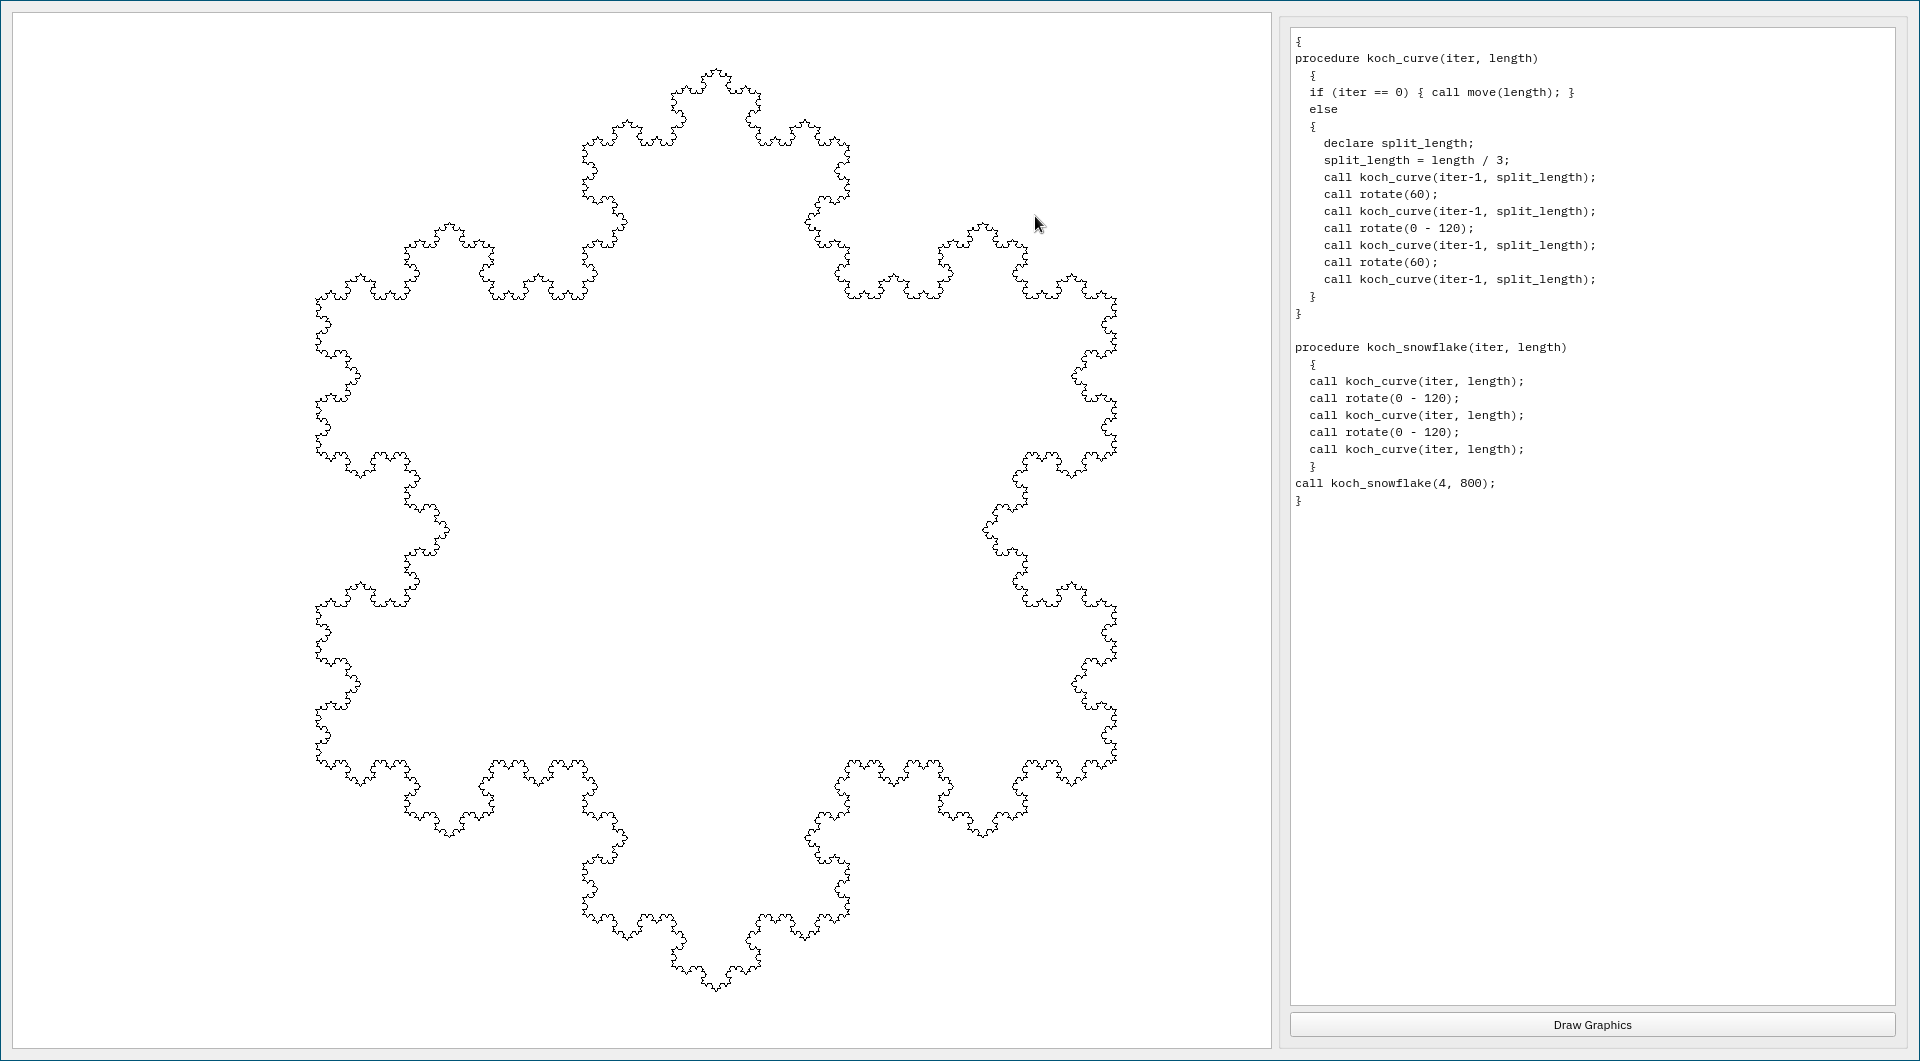
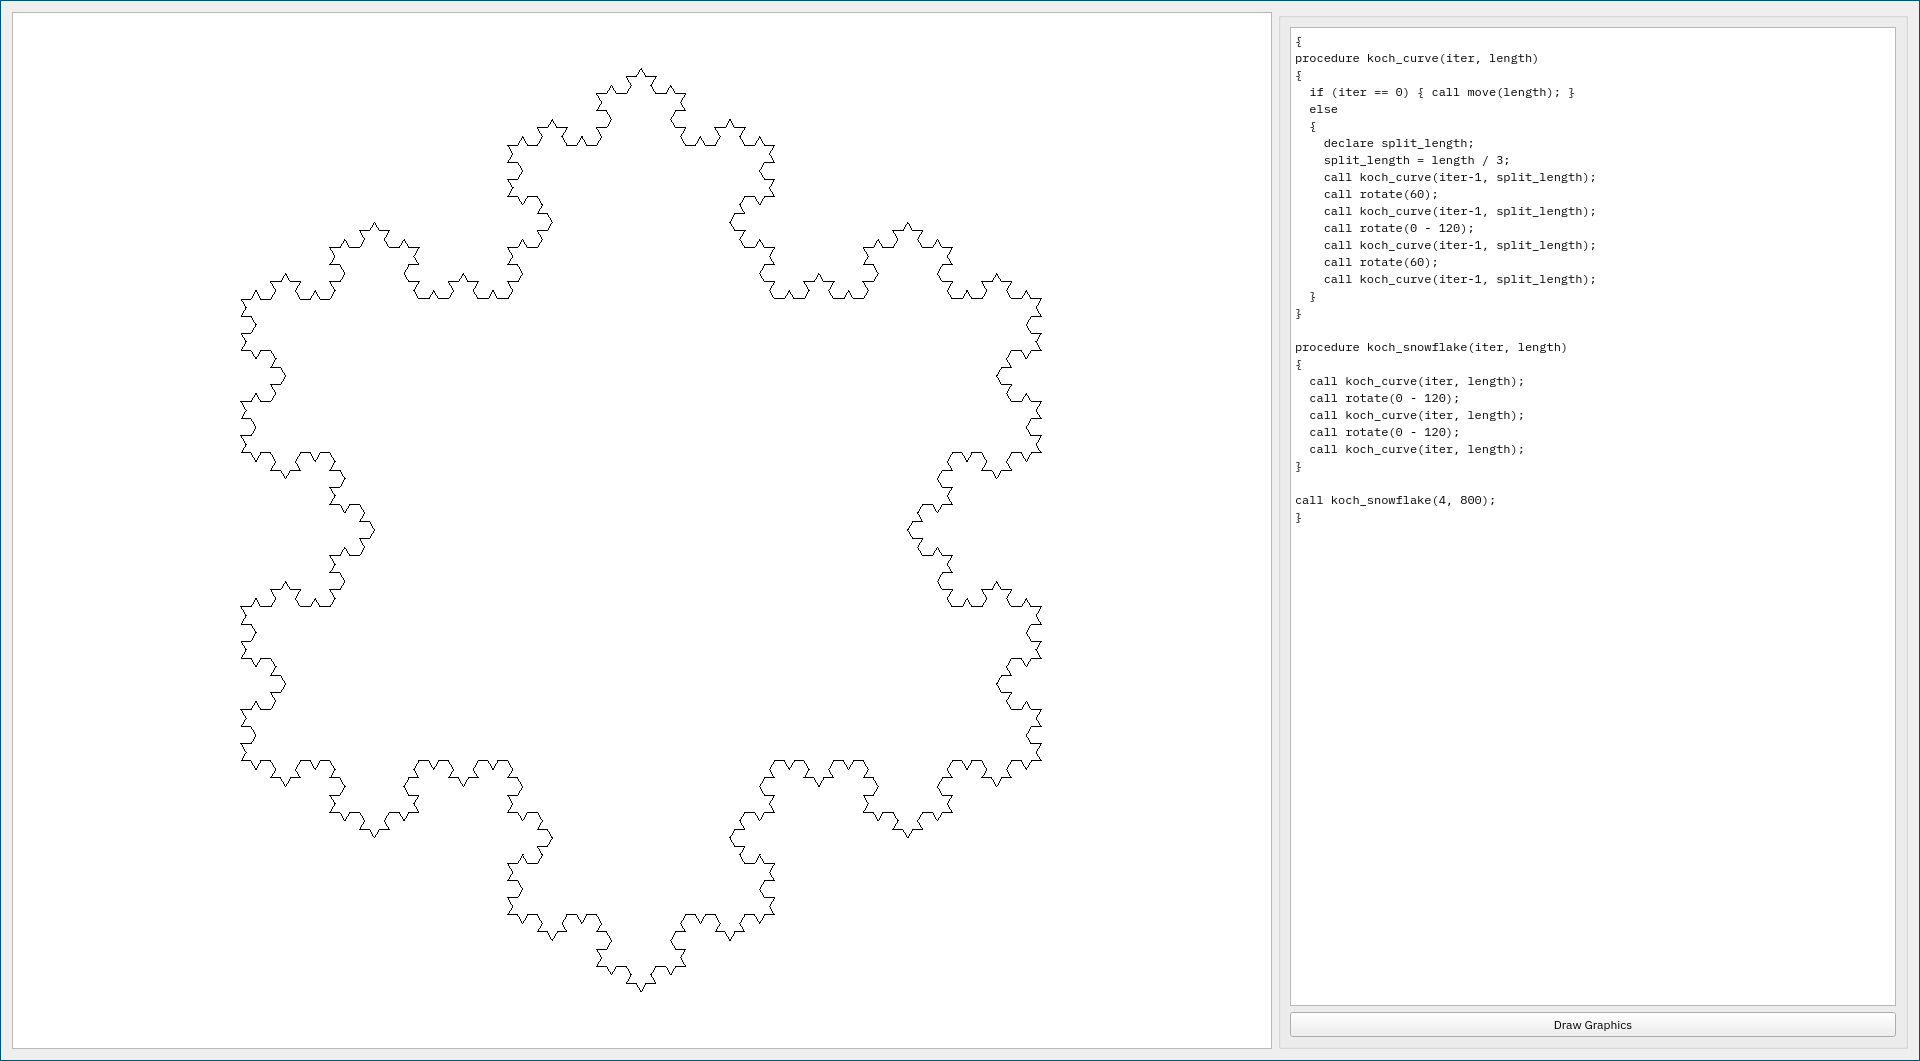
Refactoring and cleanup

diff --git a/TurtleLanguage/statement.h b/TurtleLanguage/statement.h
@@ -23,7 +23,7 @@ namespace Turtle
         std::list<std::shared_ptr<Statement>> body;
 
     public:
-        BlockStatement(std::list<std::shared_ptr<Statement>> b)
+        BlockStatement(const std::list<std::shared_ptr<Statement>>& b)
             : body{b} {}
         ~BlockStatement() {};
         void execute(SymbolTable& table);
@@ -32,10 +32,10 @@ namespace Turtle
     class DeclareStatement : public Statement
     {
     private:
-        std::list<std::string> identifiers;
+        const std::list<std::string> identifiers;
 
     public:
-        DeclareStatement(const std::list<std::string> ids) : identifiers{ids} {}
+        DeclareStatement(const std::list<std::string>& ids) : identifiers{ids} {}
         ~DeclareStatement() {};
         void execute(SymbolTable& table);
     };
@@ -84,11 +84,11 @@ namespace Turtle
     {
     private:
         const std::string identifier;
-        std::list<std::string> parameters;
+        const std::list<std::string> parameters;
         std::shared_ptr<Statement> body;
 
     public:
-        ProcedureStatement(const std::string& id, std::list<std::string> p, std::shared_ptr<Statement> b)
+        ProcedureStatement(const std::string& id, const std::list<std::string>& p, std::shared_ptr<Statement> b)
             : identifier{id}, parameters{p}, body{b} {}
         ~ProcedureStatement() {};
         void execute(SymbolTable& table);
@@ -102,7 +102,7 @@ namespace Turtle
         std::list<std::shared_ptr<Expression>> arguments;
 
     public:
-        CallStatement(const std::string& id, std::list<std::shared_ptr<Expression>> a)
+        CallStatement(const std::string& id, const std::list<std::shared_ptr<Expression>>& a)
             : identifier{id}, arguments{a} {}
         ~CallStatement() {};
         void execute(SymbolTable& table);

diff --git a/Compiler/grammar.h b/Compiler/grammar.h
@@ -2,52 +2,23 @@
 #define TURTLELANG_H
 
 #include <string>
-#include <string_view>
 
 namespace Grammar 
 {
     enum Symbol 
     {
-        EOS,
-        OPEN_ROUND_BRACKET,
-        CLOSED_ROUND_BRACKET,
-        MULT,
-        PLUS,
-        COMMA,
-        MINUS,
-        DIV,
-        SEMICOLON,
-        LESS_THAN,
-        ASSIGNMENT,
-        EQUALS,
-        CALL,
-        DECLARE,
-        ELSE,
-        IDENTIFIER,
-        IF,
-        NUMBER,
-        PROCEDURE,
-        WHILE,
-        OPEN_CURLY_BRACKET,
-        CLOSED_CURLY_BRACKET,
-        BLOCK_STMT, //
-        BOOL_EXPR,
-        BOOL_EXPR_LF,
-        EXPR,
-        EXPR_LR,
-        EXPRS,
-        EXPRS1,
-        EXPRS1_LF,
-        EXPRS_LF,
-        FACTOR,
-        IDS,
-        IDS1,
-        IDS1_LF,
-        IDS_LF,
-        STMT,
-        STMTS,
-        TERM,
-        TERM_LR,
+        EOS, OPEN_ROUND_BRACKET, CLOSED_ROUND_BRACKET,
+        MULT, PLUS, COMMA, MINUS, DIV,
+        SEMICOLON, LESS_THAN, ASSIGNMENT,
+        EQUALS, CALL, DECLARE, ELSE,
+        IDENTIFIER, IF, NUMBER, PROCEDURE,
+        WHILE, OPEN_CURLY_BRACKET, CLOSED_CURLY_BRACKET,
+
+        BLOCK_STMT, BOOL_EXPR, BOOL_EXPR_LF,
+        EXPR, EXPR_LR, EXPRS, EXPRS1,
+        EXPRS1_LF, EXPRS_LF, FACTOR,
+        IDS, IDS1, IDS1_LF, IDS_LF,
+        STMT, STMTS, TERM, TERM_LR,
     };
 
     inline constexpr int NUMBER_OF_TERMINALS{22};

diff --git a/Compiler/parser.cpp b/Compiler/parser.cpp
@@ -2,7 +2,6 @@
 #include "grammar.h"
 #include "parse_table.h"
 #include "lexer.h"
-#include "code_generation.h"
 
 #include <iostream>
 #include <set>
@@ -21,14 +20,6 @@ static bool isKept(Grammar::Symbol symbol)
     return keptSymbols.find(symbol) != keptSymbols.end();
 }
 
-/* static void printParseTree(PTNode root, int depth) */
-/* { */
-/*     std::cerr << root.token.symbol << " [" << depth << "]\n"; */ 
-/*     for (auto& node : root.children) { */
-/*         printParseTree(node, depth + 1); */
-/*     } */
-/* } */
-
 PTNode Parser::parse()
 {
     PTNode root{Token{Grammar::BLOCK_STMT}};
@@ -38,11 +29,11 @@ PTNode Parser::parse()
     do {
         PTPush parseTop{parseStack.top()};
         parseStack.pop();
-        Token inputTop{lexer.peek()};
+        Token inputTop{lexer->peek()};
 
         if (Grammar::isTerminal(parseTop.symbol) && parseTop.symbol == inputTop.symbol) {
             insertIntoParseTree(parseTop, inputTop);
-            lexer.next();
+            lexer->next();
         } else if (!Grammar::isTerminal(parseTop.symbol) 
                 && ParseTable::getEntry(parseTop.symbol, inputTop.symbol) != -1) {
             PTNode* parent = insertIntoParseTree(parseTop, Token{parseTop.symbol});

diff --git a/Application/mainwindow.cpp b/Application/mainwindow.cpp
@@ -1,8 +1,7 @@
 #include "mainwindow.h"
 #include "turtlescene.h"
-#include "parser.h"
+#include "compiler.h"
 #include "statement.h"
-#include "code_generation.h"
 #include "turtle_statement.h"
 #include "symbol_table.h"
 
@@ -56,8 +55,7 @@ void MainWindow::onButtonReleased()
     Turtle::ProcedureStatement rotate{"rotate", std::list<std::string>{"x"}, std::make_shared<RotateStatement>(RotateStatement{turtleScene})};
     mainBody.push_back(std::make_shared<Turtle::ProcedureStatement>(rotate));
 
-    Parser parser{instructionEdit->toPlainText().toStdString()};
-    std::shared_ptr<Turtle::Statement> code{generate(parser.parse())};
+    std::shared_ptr<Turtle::Statement> code{compile(instructionEdit->toPlainText().toStdString())};
     mainBody.push_back(code);
     Turtle::BlockStatement main{mainBody};
     SymbolTable table{};

diff --git a/TurtleLanguage/symbol_table.cpp b/TurtleLanguage/symbol_table.cpp
@@ -23,13 +23,13 @@ tableEntry* SymbolTable::lookup(const std::string& id)
 
 void SymbolTable::addFunction(const std::string& id, Turtle::ProcedureStatement* procedure)
 {
-    tableEntry entry{id, static_cast<int>(table.size()), true, procedure, Turtle::Rational(1, 1)};
+    tableEntry entry{id, static_cast<int>(table.size()), true, procedure, Turtle::Rational()};
     (table.back())->insert_or_assign(id, entry); 
 }
 
 void SymbolTable::addVariable(const std::string& id)
 {
-    tableEntry entry{id, static_cast<int>(table.size()), false, nullptr, Turtle::Rational(0, 1)};
+    tableEntry entry{id, static_cast<int>(table.size()), false, nullptr, Turtle::Rational()};
     (table.back())->insert_or_assign(id, entry); 
 }
 

diff --git a/Compiler/parser.h b/Compiler/parser.h
@@ -4,7 +4,6 @@
 #include "grammar.h"
 #include "lexer.h"
 
-#include <string>
 #include <stack>
 #include <list>
 
@@ -23,14 +22,14 @@ struct PTPush
 class Parser
 {
 private:
-    Lexer lexer;
+    Lexer* lexer;
     std::stack<PTPush> parseStack;
     void pushRule(const std::list<Grammar::Symbol>& rule, PTNode* parent);
     void pushSymbol(Grammar::Symbol symbol, PTNode* parent);
     PTNode* insertIntoParseTree(PTPush parseTop, Token token);
 
 public:
-    Parser(const std::string& input) : lexer{Lexer{input}}, parseStack{} {}
+    Parser(Lexer* lexer) : lexer{lexer}, parseStack{} {}
     PTNode parse();
 };
 

diff --git a/Compiler/grammar.cpp b/Compiler/grammar.cpp
@@ -12,7 +12,7 @@ bool Grammar::isTerminal(Symbol symbol)
     return symbol < NUMBER_OF_TERMINALS;
 }
 
-const static std::map<std::string, Symbol> symbols {
+const static std::map<std::string_view, Symbol> symbols {
     {"if", IF}, {"else", ELSE}, {"while", WHILE}, {"procedure", PROCEDURE},
     {"call", CALL}, {"declare", DECLARE}, {"=", ASSIGNMENT}, {",", COMMA}, {";", SEMICOLON},
     {"(", OPEN_ROUND_BRACKET}, {")", CLOSED_ROUND_BRACKET}, {"{", OPEN_CURLY_BRACKET},

diff --git a/Compiler/lexer.cpp b/Compiler/lexer.cpp
@@ -3,8 +3,8 @@
 
 #include <sstream>
 #include <string>
+#include <string_view>
 #include <iostream>
-#include <map>
 
 static bool isSep(char c);
 
@@ -27,7 +27,7 @@ void Lexer::next()
 Token Lexer::tokenize()
 {
     parseStream >> std::ws;
-    if (parseStream.eof()) { return Token{Grammar::EOS, ""}; }
+    if (parseStream.eof()) { return Token{Grammar::EOS}; }
     
     int c{parseStream.peek()};
     if (isdigit(c) || c == '%') {

diff --git a/Application/turtle_statement.cpp b/Application/turtle_statement.cpp
@@ -20,7 +20,7 @@ void MoveStatement::execute(SymbolTable& table)
 {
     tableEntry* search{table.lookup("x")};
     if (search != nullptr && !(search->isProcedure)) {
-        scene->movePenY(-(search->value).toDouble());
+        scene->movePenX((search->value).toDouble());
     } else {
         std::cerr << "Error looking up variable '" << "x" << "'\n";
         exit(1);

diff --git a/Compiler/compiler.cpp b/Compiler/compiler.cpp
@@ -1,0 +1,15 @@
+#include "compiler.h"
+#include "statement.h"
+#include "lexer.h"
+#include "parser.h"
+#include "code_generation.h"
+
+#include <memory>
+#include <string>
+
+std::shared_ptr<Turtle::Statement> compile(const std::string& input)
+{
+    Lexer lexer{input};
+    Parser parser{&lexer};
+    return generate(parser.parse());
+}

diff --git a/TurtleLanguage/rational.h b/TurtleLanguage/rational.h
@@ -12,6 +12,7 @@ namespace Turtle
         int denominator;
         
     public:
+        Rational() : numerator{0}, denominator{1} {}
         Rational(int n, int d) : numerator{n}, denominator{d} {}
         Rational(const std::string& str);
         int getNumerator() const { return numerator; }

diff --git a/Compiler/compiler.h b/Compiler/compiler.h
@@ -1,0 +1,11 @@
+#ifndef COMPILER_H
+#define COMPILER_H
+
+#include "statement.h"
+
+#include <memory>
+#include <string>
+
+std::shared_ptr<Turtle::Statement> compile(const std::string& input);
+
+#endif
